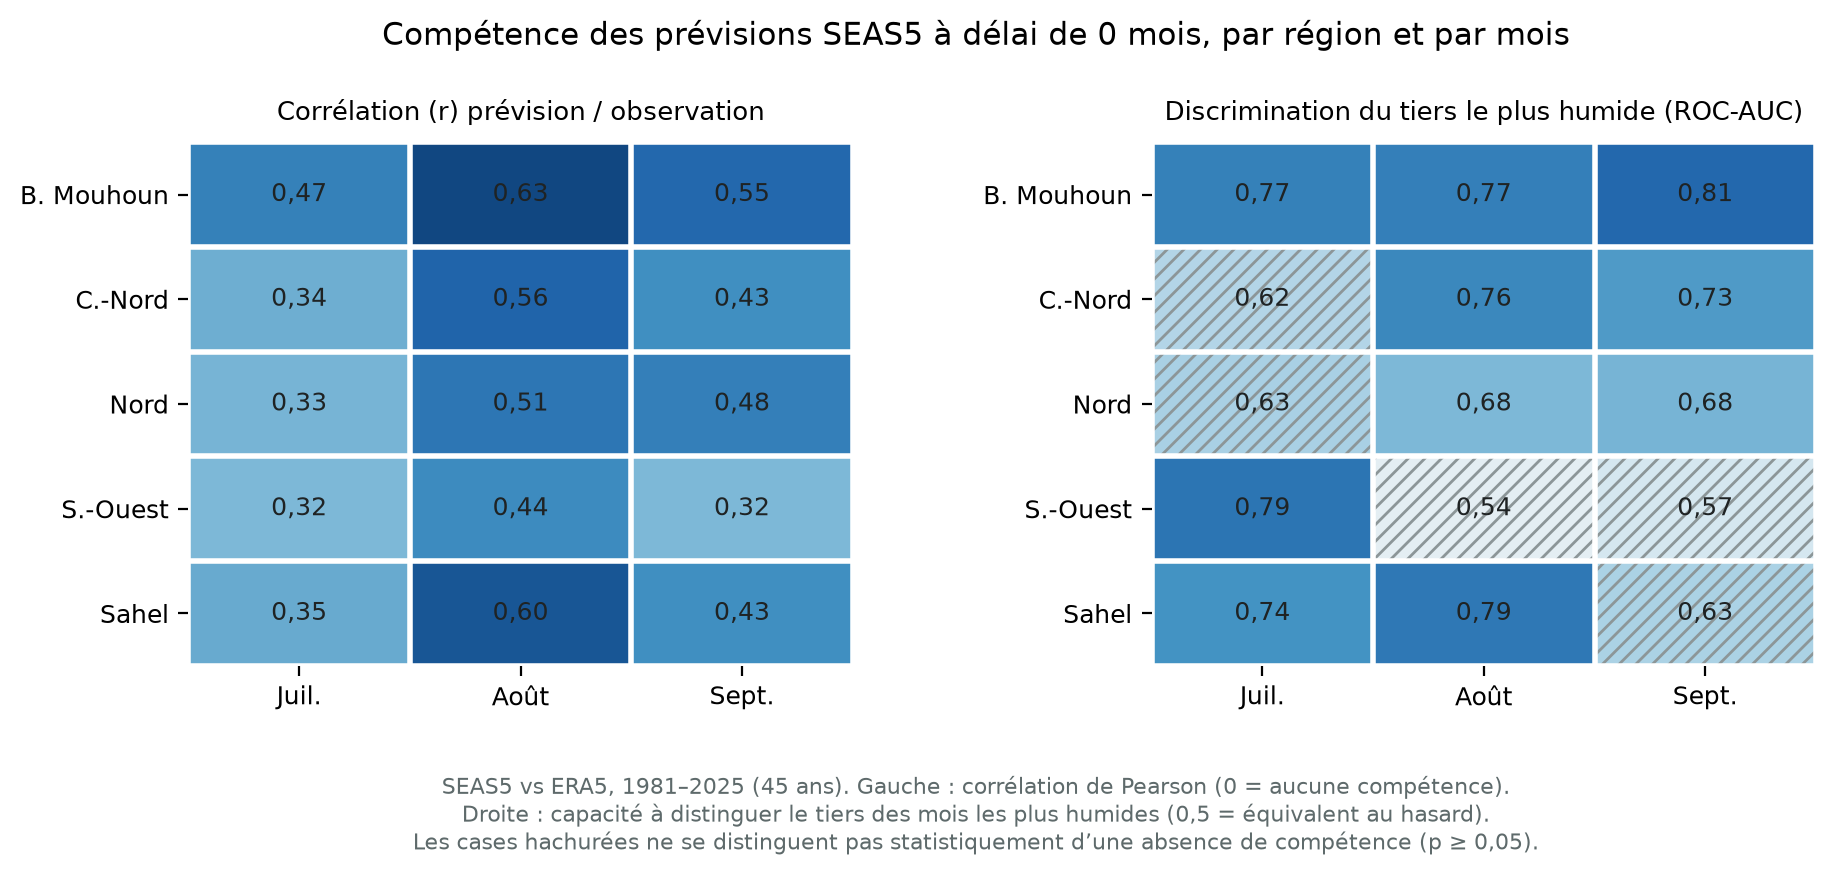
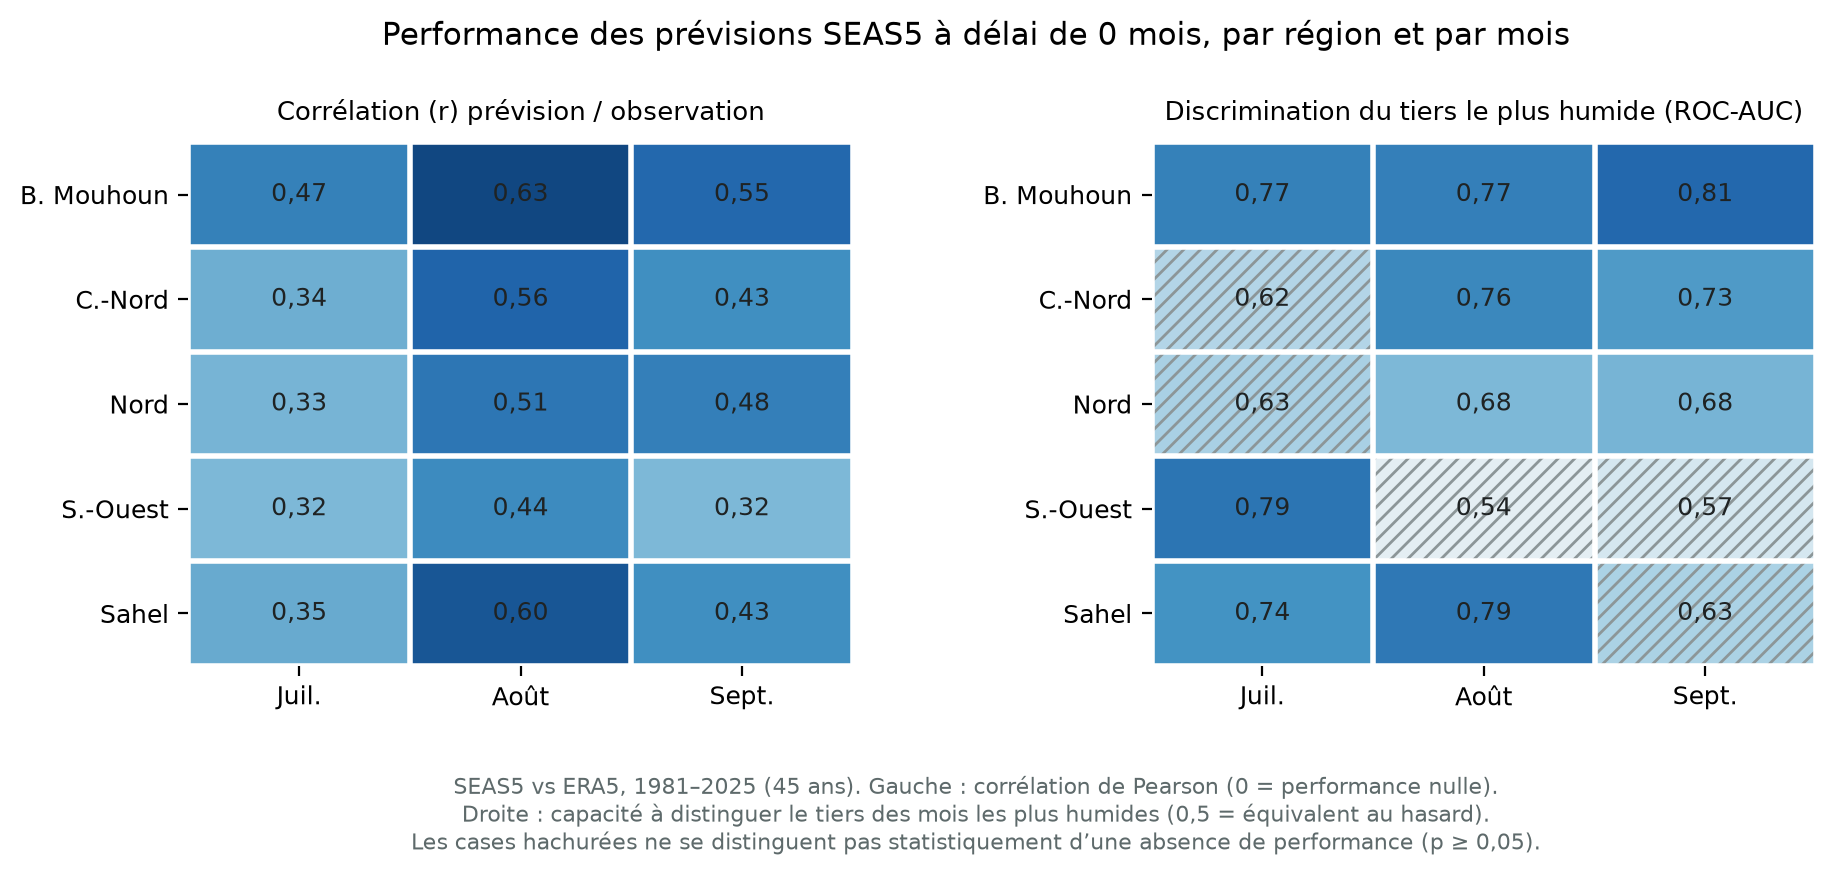
use 'performance' not 'compétence' for forecast skill
Doc-attested term (bfa-flooding 2025-08); 'compétence' is a calque that
collides with the human/institutional sense used elsewhere in our docs.
Glossary entry: ds-knowledge-base#516.

diff --git a/index.html b/index.html
@@ -100,9 +100,9 @@
       <li>Sud-Ouest : 7,99 mm/jour prévus (seuil 7,04 mm/jour)</li>
     </ul>
     <p style="margin-top:0.75rem">
-      La compétence de la prévision diffère nettement entre ces deux régions —
-      voir <a href="#competence">compétence des prévisions</a> ci-dessous avant
-      toute interprétation.
+      La performance de la prévision diffère nettement entre ces deux régions —
+      voir <a href="#performance">performance des prévisions</a> ci-dessous
+      avant toute interprétation.
     </p>
   </div>
   <div class="status">
@@ -122,10 +122,10 @@
       seront ajoutées dès leur publication.
     </figcaption>
   </figure>
-  <h2 id="competence">Référence : compétence des prévisions</h2>
+  <h2 id="performance">Référence : performance des prévisions</h2>
   <p>
     Un seuil atteint n’a de valeur que si la prévision qui le déclenche a une
-    compétence démontrée pour le mois et la région concernés. La figure
+    performance démontrée pour le mois et la région concernés. La figure
     ci-dessous compare les prévisions SEAS5 à délai de 0 mois aux observations
     ERA5 sur 1981–2025, pour chaque région et chaque mois suivi.
   </p>
@@ -141,7 +141,7 @@
   </p>
   <figure>
     <img src="plots/bfa_seas5_skill.png"
-         alt="Compétence des prévisions SEAS5 à délai de 0 mois par région et par mois : corrélation de Pearson et discrimination du tiers le plus humide, 1981-2025">
+         alt="Performance des prévisions SEAS5 à délai de 0 mois par région et par mois : corrélation de Pearson et discrimination du tiers le plus humide, 1981-2025">
     <figcaption>
       Méthodologie reprise de
       <a href="https://github.com/OCHA-DAP/ds-seas5-skill">ds-seas5-skill</a>
@@ -149,7 +149,7 @@
       l’écart-type d’ERA5, puis corrélation), appliquée ici par mois
       individuel et par région admin-1 plutôt que par trimestre et par pays.
       Les cases hachurées ne se distinguent pas statistiquement d’une absence
-      de compétence.
+      de performance.
     </figcaption>
   </figure>
   <div class="status">
